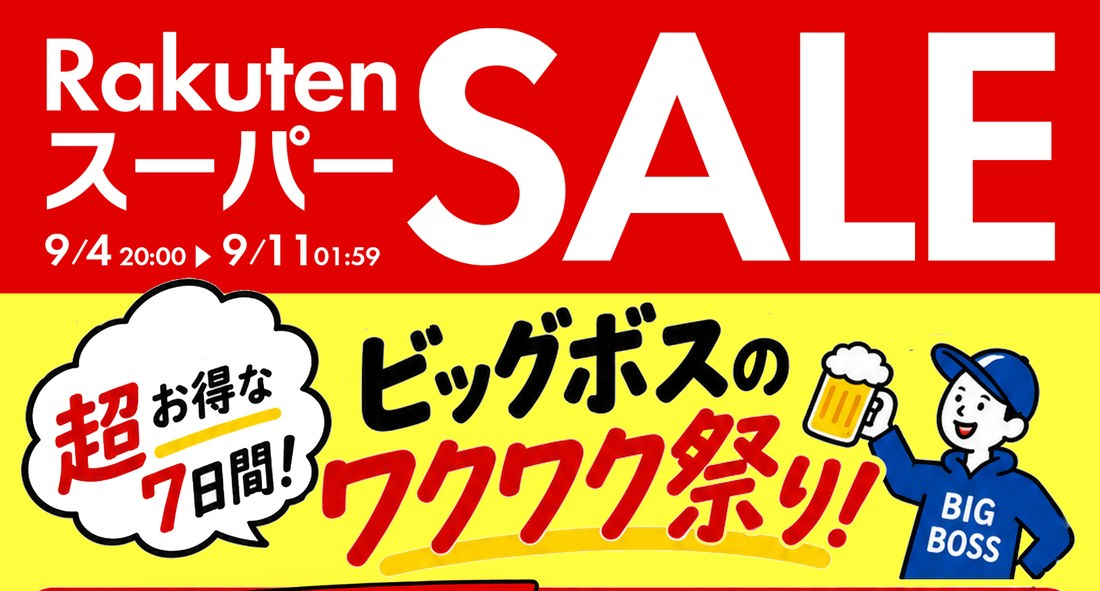
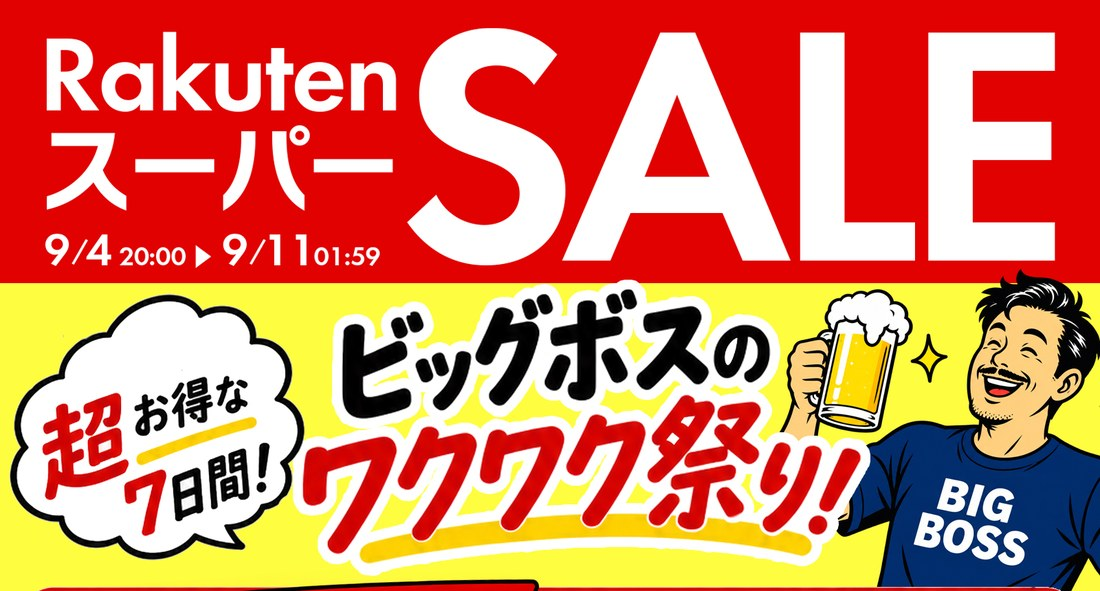
feat: FV画像を更新版チラシに差し替え、クーポン/推しブロックをページ内アンカーへリンク

diff --git a/index.html b/index.html
@@ -54,6 +54,11 @@
   }
   .fv img{ width:100%; height:auto; display:block; }
   .fv a{ display:block; }
+  .fv-split{ display:flex; }
+  .fv-split a{ display:block; }
+  .fv-split a:first-child{ width:44.375%; }
+  .fv-split a:last-child{ width:55.625%; }
+  .fv-split img{ width:100%; display:block; }
   .confetti{
     position:absolute;
     inset:0;
@@ -447,7 +452,14 @@
     <a href="https://www.rakuten.co.jp/bigbossshibazaki/contents/202608_max10000point/" target="_blank" rel="noopener">
       <img src="images/fv_c_chance.jpg" alt="最大チャンス！9月中はずーっとポイント山分けキャンペーン 最大10,000POINT当たる！詳細はこちら">
     </a>
-    <img src="images/fv_d_bottom.jpg" alt="お得なCOUPONいろいろ！ BIG BOSS今月の推し。金麦・金麦糖質75%オフ・角ハイボール・こだわり酒場レモンサワー等">
+    <div class="fv-split">
+      <a href="#coupon">
+        <img src="images/fv_e_coupon.jpg" alt="お得なクーポンいろいろ！ 時間限定・枚数限定などおトクなクーポンがもりだくさん！">
+      </a>
+      <a href="#oshi">
+        <img src="images/fv_f_oshi.jpg" alt="BIG BOSS今月の推し。金麦・金麦糖質75%オフ・角ハイボール・こだわり酒場レモンサワー等">
+      </a>
+    </div>
   </div>
 
   <section class="greeting">
